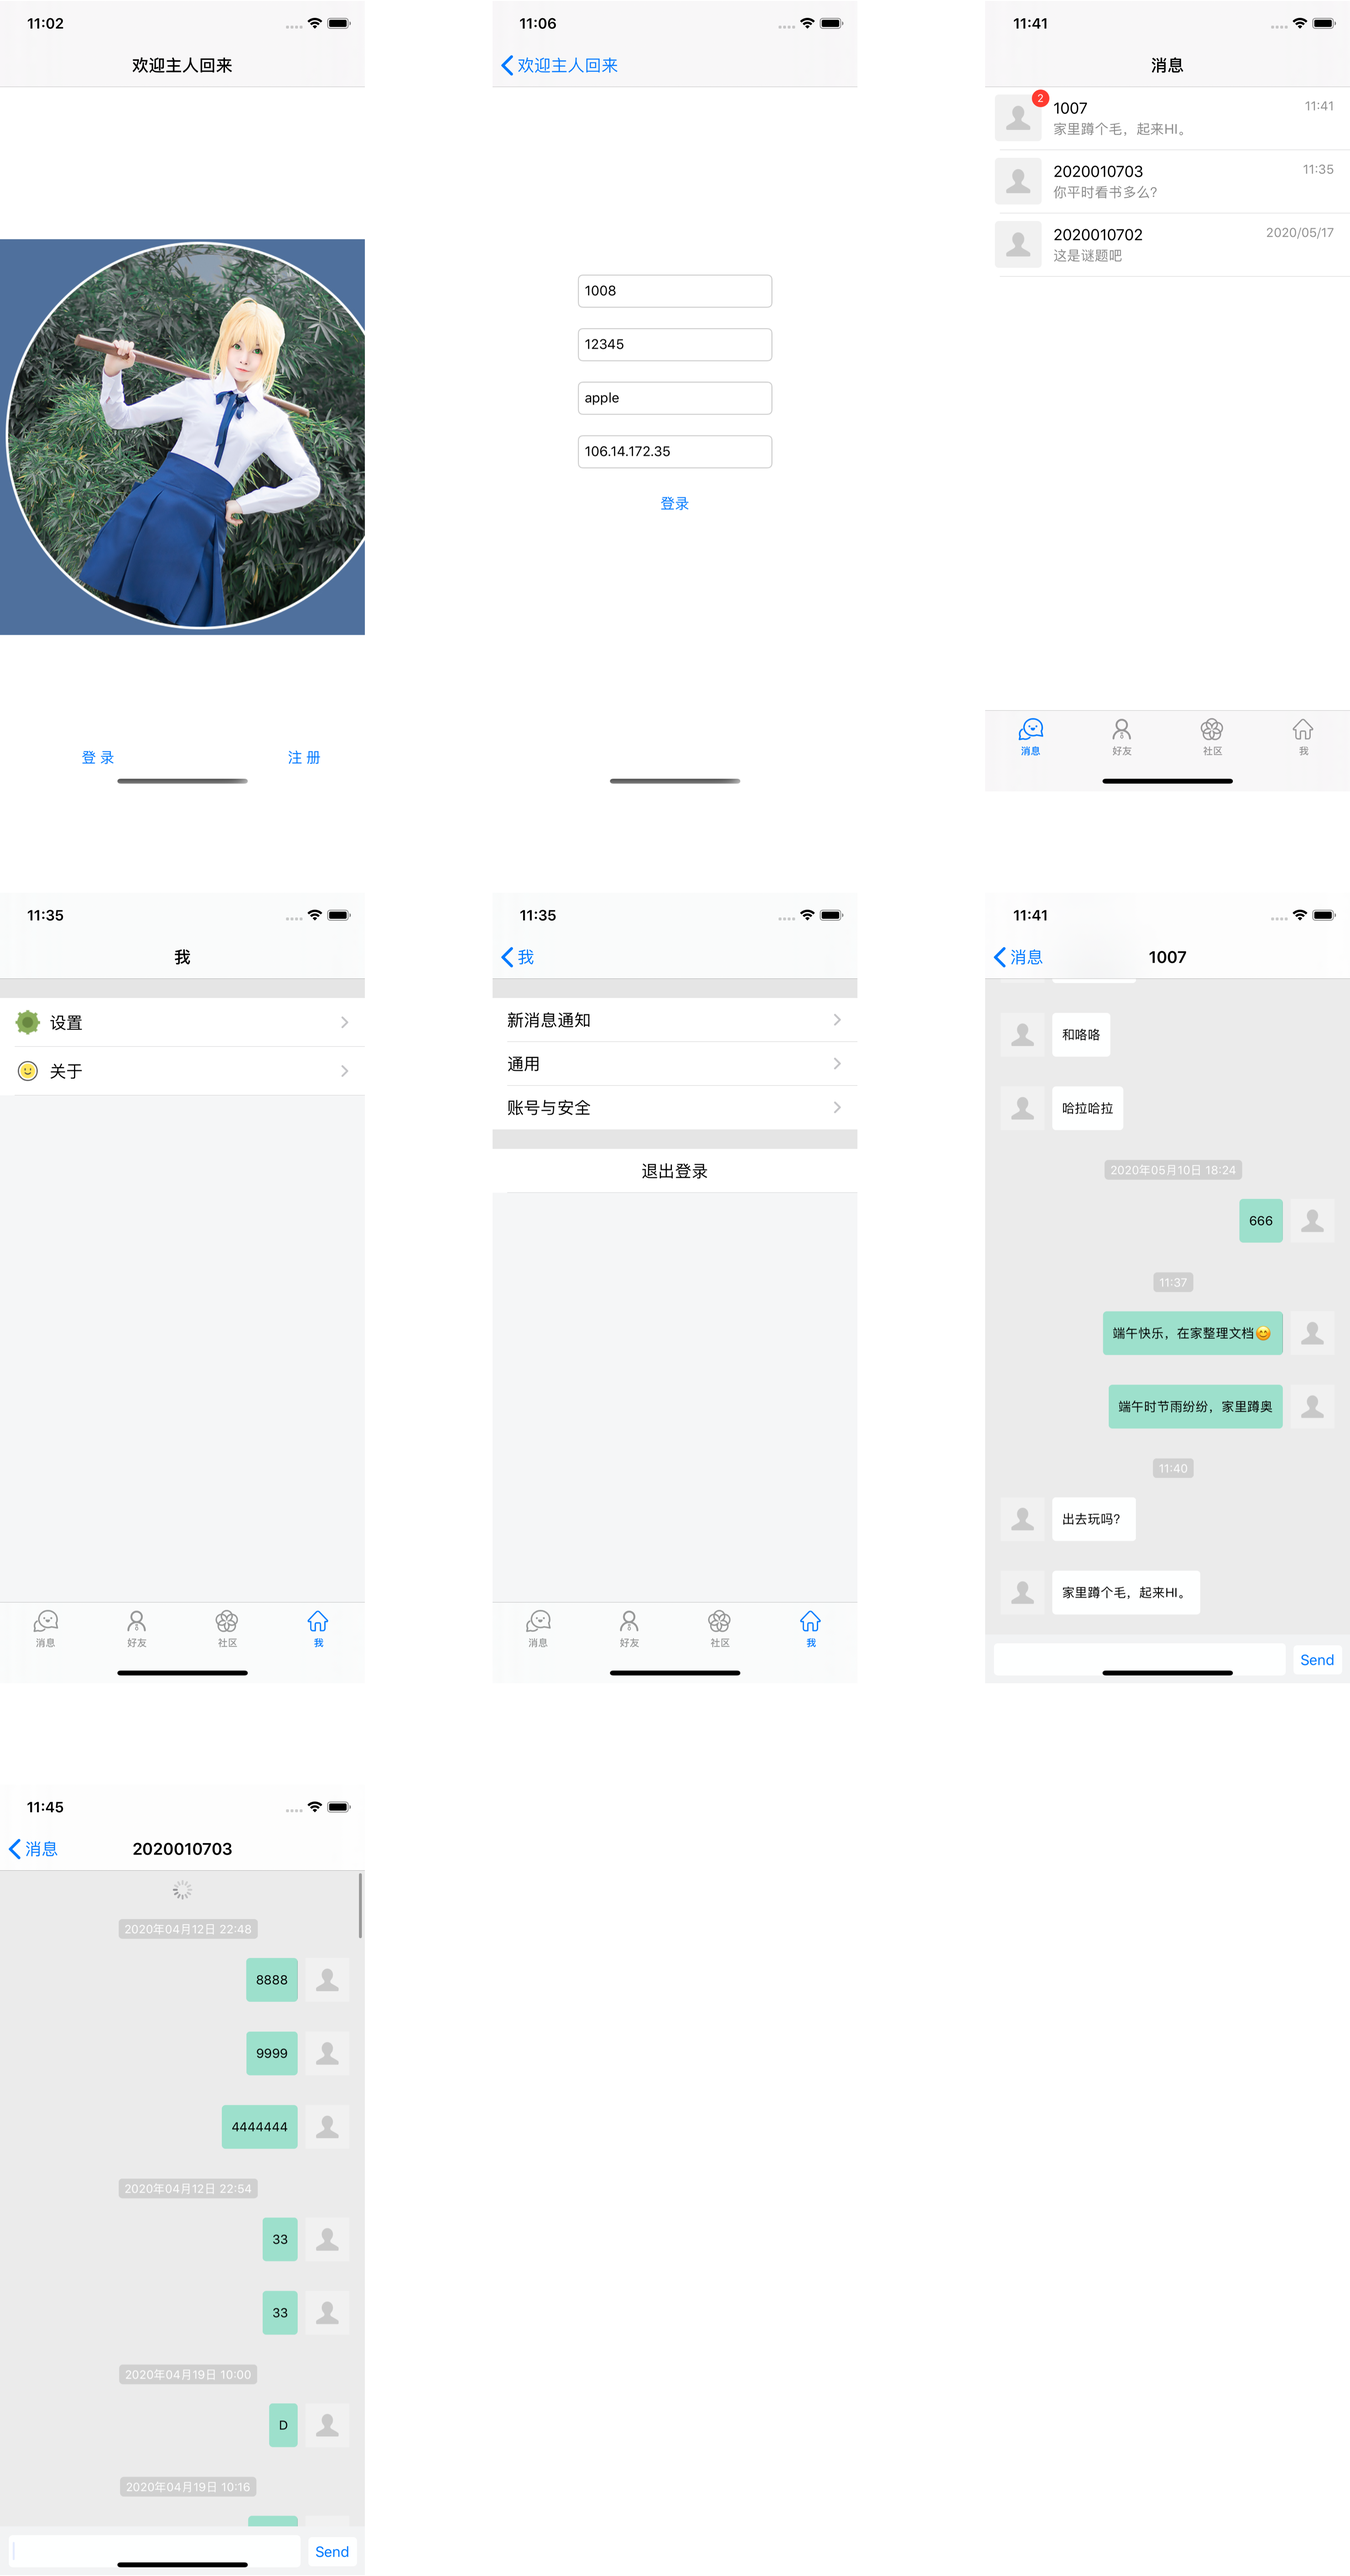
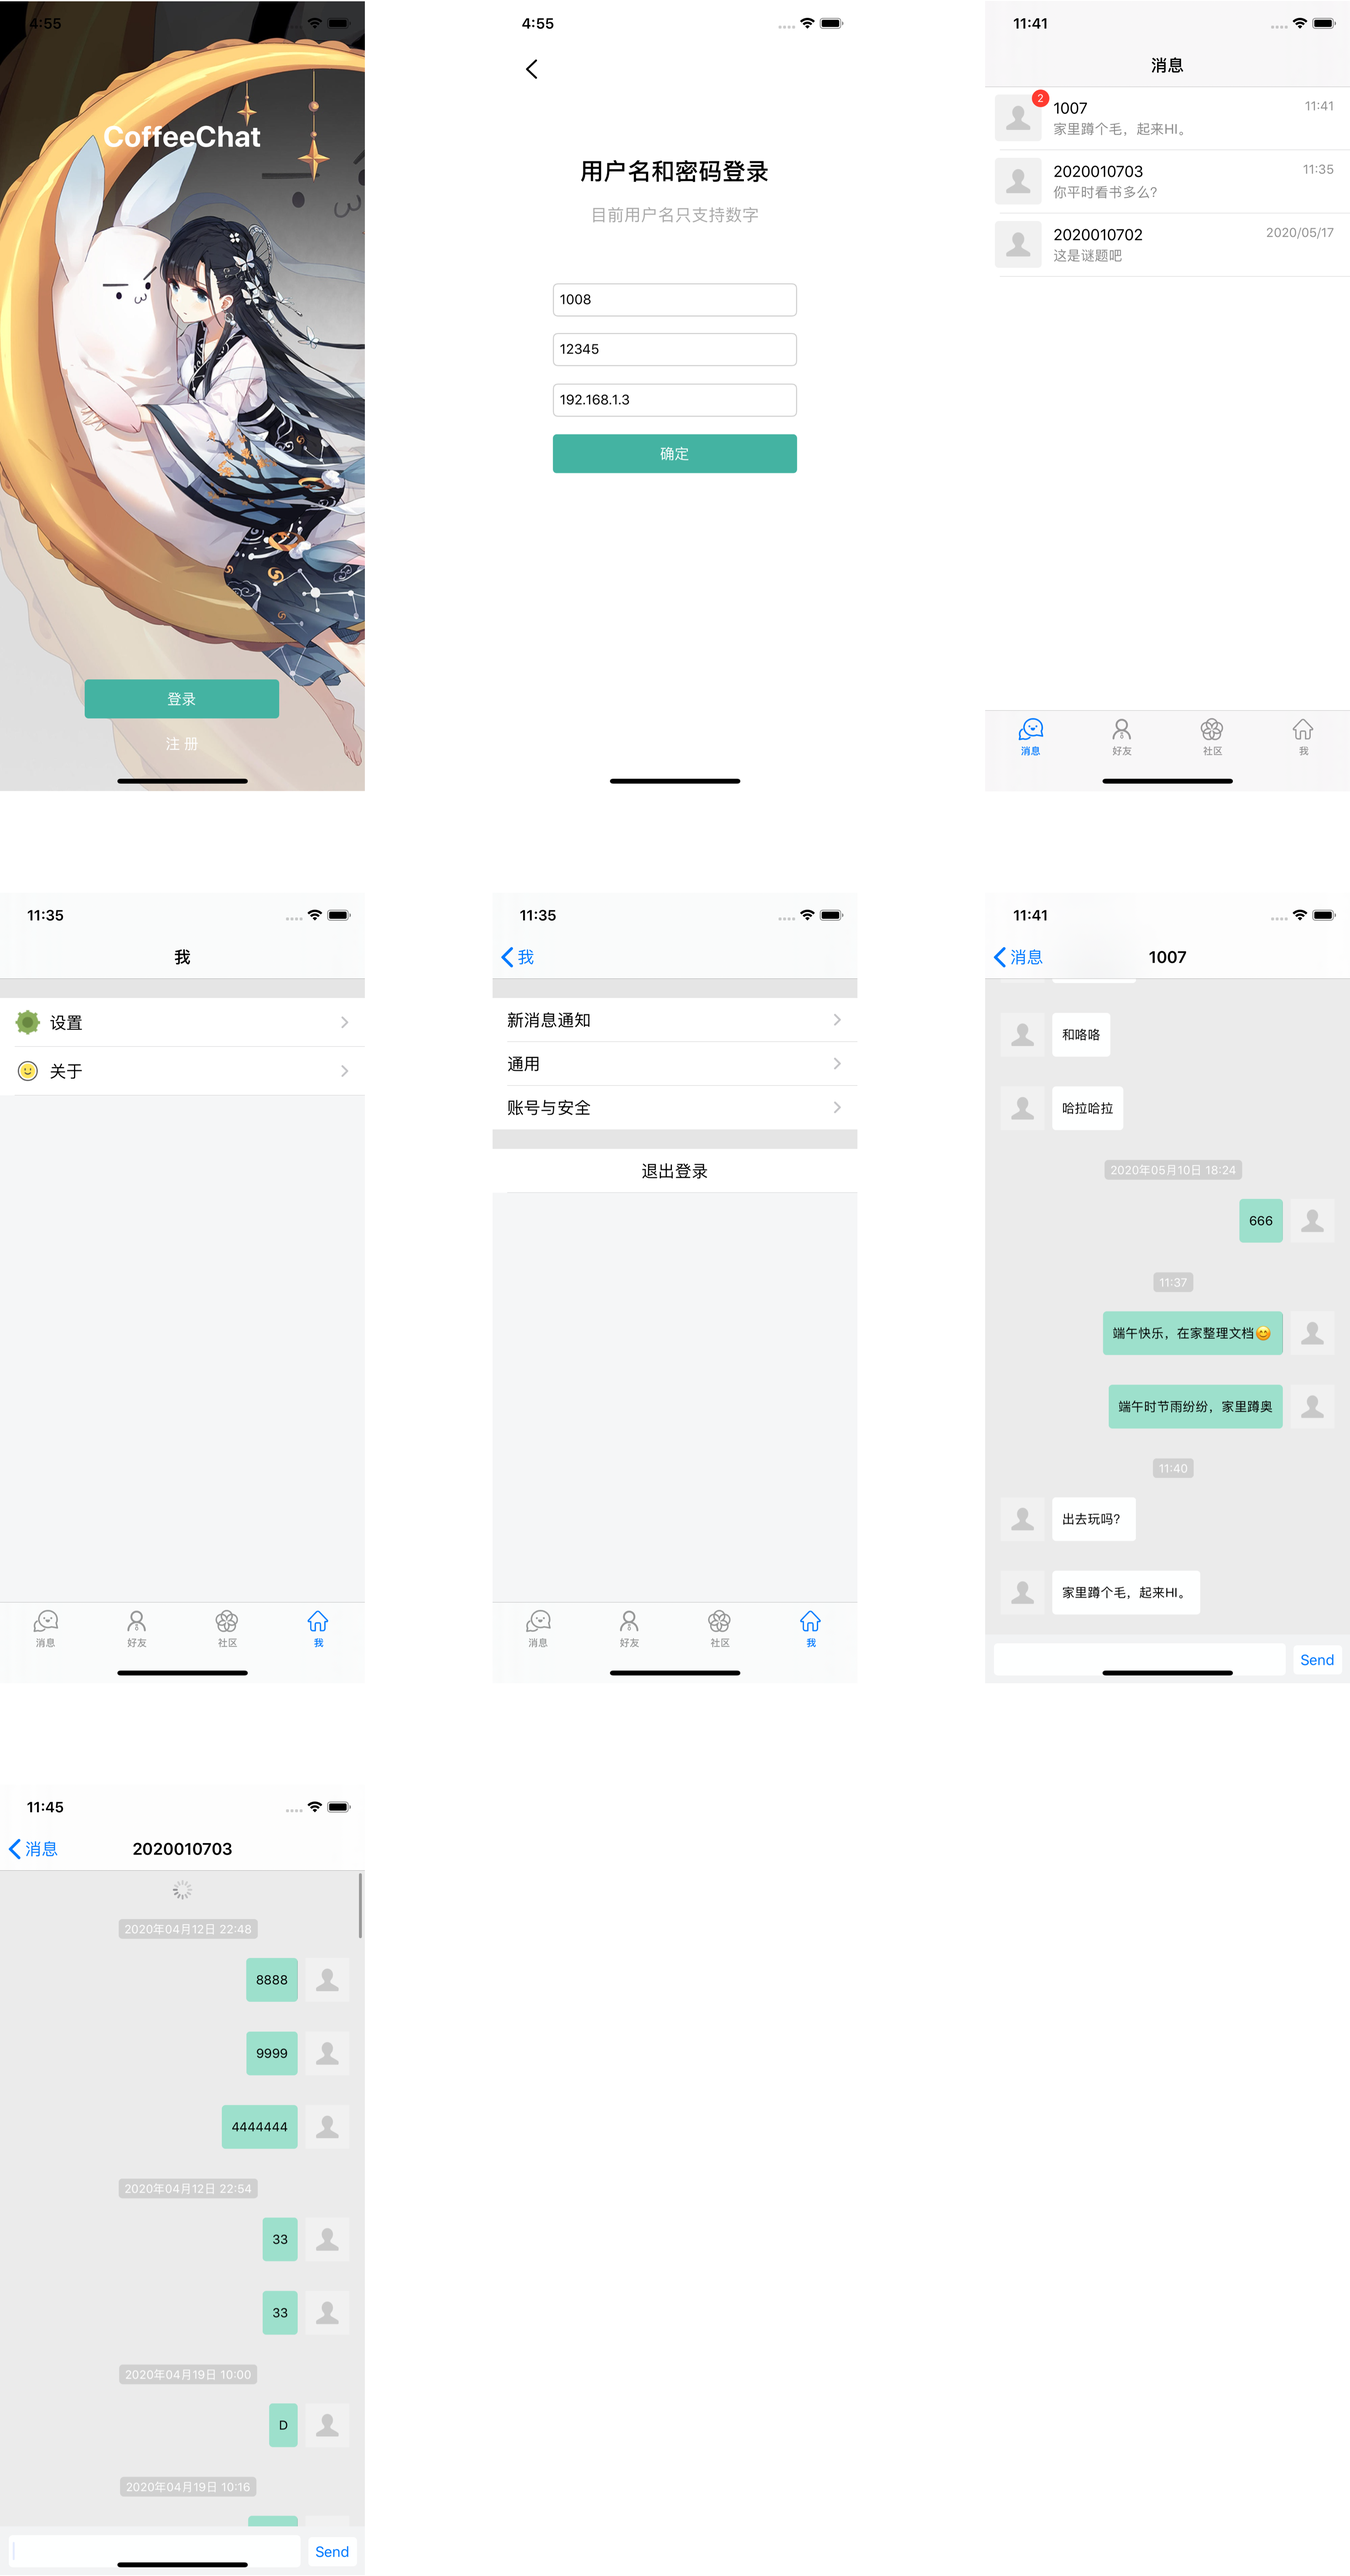
登录界面美化

diff --git a/client/ios/Coffchat/Coffchat/UI/Login/LoginViewController.swift b/client/ios/Coffchat/Coffchat/UI/Login/LoginViewController.swift
@@ -7,7 +7,6 @@
 //
 
 import Alamofire
-import Chrysan
 import UIKit
 
 typealias LoginResult = (_ code: Int, _ desc: String) -> Void
@@ -15,10 +14,9 @@ typealias LoginResult = (_ code: Int, _ desc: String) -> Void
 class LoginViewController: UIViewController, IMLoginManagerDelegate, UITextFieldDelegate {
     @IBOutlet var id: UITextField!
     @IBOutlet var token: UITextField!
-    @IBOutlet var nick: UITextField!
     @IBOutlet var server: UITextField!
     @IBOutlet var btnLogin: UIButton!
-    @IBOutlet var backBtn: UIButton!
+    @IBOutlet var backBtn: BEButton!
 
     var loginResultCallback: LoginResult?
 
@@ -29,8 +27,10 @@ class LoginViewController: UIViewController, IMLoginManagerDelegate, UITextField
 
         id.delegate = self
         token.delegate = self
-        nick.delegate = self
         server.delegate = self
+
+        backBtn.setEnlargeEdge(20)
+        btnLogin.layer.cornerRadius = 4
 
         hideKeyboardWhenTappedAround()
         // Do any additional setup after loading the view.
@@ -40,7 +40,7 @@ class LoginViewController: UIViewController, IMLoginManagerDelegate, UITextField
 //            debugPrint(res)
 //        }
     }
-    
+
     deinit {
         _ = IMManager.singleton.loginManager.unregister(key: "LoginViewController")
     }
@@ -55,7 +55,6 @@ class LoginViewController: UIViewController, IMLoginManagerDelegate, UITextField
     @objc func dismissKeyboard() {
         id.resignFirstResponder()
         token.resignFirstResponder()
-        nick.resignFirstResponder()
         server.resignFirstResponder()
     }
 
@@ -65,16 +64,13 @@ class LoginViewController: UIViewController, IMLoginManagerDelegate, UITextField
 
     @IBAction func onLoginBtnClick(_ sender: Any) {
         if check() {
-            // 菊花
-            chrysan.show(.running, message: nil, hideDelay: 3.0)
             let userId = UInt64(id.text!)
             if userId == nil {
                 return
             }
-            _ = IMManager.singleton.loginManager.login(userId: userId!, nick: nick.text!, userToken: token.text!, serverIp: server.text!, port: 8000) { rsp in
+            _ = IMManager.singleton.loginManager.login(userId: userId!, userToken: token.text!, serverIp: server.text!, port: 8000) { rsp in
                 // 线程安全
                 DispatchQueue.main.async {
-                    self.chrysan.hide()
                     if rsp.resultCode != .kCimErrSuccsse {
                         let alert = UIAlertController(title: "提醒", message: "登录失败:\(rsp.resultString)", preferredStyle: .alert)
                         let ok = UIAlertAction(title: "提醒", style: .cancel, handler: nil)
@@ -98,8 +94,6 @@ class LoginViewController: UIViewController, IMLoginManagerDelegate, UITextField
             text = "请输入ID"
         } else if token.text?.isEmpty ?? true {
             text = "请输入Token"
-        } else if nick.text?.isEmpty ?? true {
-            text = "请输入昵称"
         } else if server.text?.isEmpty ?? true {
             text = "请输入服务器IP"
         }
@@ -130,10 +124,9 @@ class LoginViewController: UIViewController, IMLoginManagerDelegate, UITextField
                 let ok = UIAlertAction(title: "提醒", style: .cancel, handler: nil)
                 alert.addAction(ok)
                 self.present(alert, animated: true, completion: nil)
-                self.btnLogin.setTitle("登录", for: .normal)
-                self.chrysan.hide()
+                self.btnLogin.setTitle("确定", for: .normal)
             default:
-                self.btnLogin.setTitle("登录", for: .normal)
+                self.btnLogin.setTitle("确定", for: .normal)
             }
         }
     }

diff --git a/client/ios/Coffchat/Coffchat/CIMSdk/IMLoginManager.swift b/client/ios/Coffchat/Coffchat/CIMSdk/IMLoginManager.swift
@@ -77,13 +77,12 @@ class IMLoginManager: IMClientDelegateStatus, IMClientDelegateData {
     /// 登录
     /// - Parameters:
     ///   - userId: 用户ID
-    ///   - nick: 用户昵称
     ///   - userToken: 用户口令
     ///   - serverIp: 服务器IP
     ///   - port: 服务器端口
     ///   - callback: 回调
-    func login(userId: UInt64, nick: String, userToken: String, serverIp: String, port: UInt16, callback: IMResultCallback<CIM_Login_CIMAuthTokenRsp>?) -> Bool {
-        IMLog.info(item: "auth userId=\(userId),nick=\(nick),userToken=\(userToken),serverIp=\(serverIp),port=\(port)")
+    func login(userId: UInt64, userToken: String, serverIp: String, port: UInt16, callback: IMResultCallback<CIM_Login_CIMAuthTokenRsp>?) -> Bool {
+        IMLog.info(item: "auth userId=\(userId),userToken=\(userToken),serverIp=\(serverIp),port=\(port)")
         
         if isLogin, self.userId != nil, userId != self.userId {
             client.disconnect()
@@ -98,7 +97,6 @@ class IMLoginManager: IMClientDelegateStatus, IMClientDelegateData {
         loginStep = IMLoginStep.Linking
         
         self.userId = userId
-        userNick = nick
         self.userToken = userToken
         authCallback = callback
         
@@ -170,7 +168,7 @@ extension IMLoginManager {
     func onConnected(_ host: String, port: UInt16) {
         _onUpdateLoginStep(step: .LinkOK)
         
-        if !isLogin, userId != nil, userNick != nil, userToken != nil {
+        if !isLogin, userId != nil, userToken != nil {
             // 更新登录进度
             _onUpdateLoginStep(step: .Logining)
             
@@ -178,7 +176,6 @@ extension IMLoginManager {
             var req = CIM_Login_CIMAuthTokenReq()
             req.clientType = CIM_Def_CIMClientType.kCimClientTypeIos
             req.userID = userId!
-            req.nickName = userNick!
             req.userToken = userToken!
             req.clientVersion = kClientVersion
             
@@ -209,12 +206,15 @@ extension IMLoginManager {
         do {
             res = try CIM_Login_CIMAuthTokenRsp(serializedData: data)
             
-            IMLog.info(item: "auth resultCode=\(res.resultCode),resultString=\(res.resultString)")
+            IMLog.info(item: "auth resultCode=\(res.resultCode),resultString=\(res.resultString),userId=\(res.userInfo.userID),nick=\(res.userInfo.nickName)")
             
             // 登录成功
             if res.resultCode == CIM_Def_CIMErrorCode.kCimErrSuccsse {
                 isLogin = true
                 loginTime = Int32(NSDate().timeIntervalSince1970)
+                
+                // 记录自己的昵称
+                userNick = res.userInfo.nickName
                 
                 // 更新登录进度
                 _onUpdateLoginStep(step: .LoginOK)
@@ -262,7 +262,7 @@ extension IMLoginManager {
                 if lastAuthTimeInterval > 8 {
                     lastAuthTimeInterval = 1
                 }
-                _ = login(userId: userId!, nick: userNick!, userToken: userToken!, serverIp: client.ip, port: client.port, callback: nil)
+                _ = login(userId: userId!, userToken: userToken!, serverIp: client.ip, port: client.port, callback: nil)
             }
         }
         

diff --git a/client/ios/Coffchat/Coffchat/UIHelper/BEButton.swift b/client/ios/Coffchat/Coffchat/UIHelper/BEButton.swift
@@ -1,0 +1,75 @@
+//
+//  BEButton.swift
+//  Coffchat
+//
+//  Created by fei.xu on 2020/12/6.
+//  Copyright © 2020 Coffeechat Inc. All rights reserved.
+//
+
+import Foundation
+import UIKit
+
+
+// from: https://www.jianshu.com/p/d8b10fceb242
+
+class BEButton: UIButton {
+    let _top = "_top"
+    let _left = "_left"
+    let _bottom = "_bottom"
+    let _right = "_right"
+    
+    override func point(inside point: CGPoint, with event: UIEvent?) -> Bool {
+        let rect = enlargedRect()
+        if rect.equalTo(bounds) {
+            return super.point(inside: point, with: event)
+        }
+        return rect.contains(point) ? true : false
+    }
+}
+
+extension BEButton {
+    func setEnlargeEdge(_ length: Float) {
+        setEnlargeEdge(length, length, length, length)
+    }
+    
+    func setEnlargeEdge(_ top: Float, _ left: Float, _ bottom: Float, _ right: Float) {
+        objc_setAssociatedObject(
+            self,
+            UnsafeRawPointer(bitPattern: _top.hashValue)!,
+            NSNumber(value: top),
+            .OBJC_ASSOCIATION_RETAIN_NONATOMIC)
+        objc_setAssociatedObject(
+            self,
+            UnsafeRawPointer(bitPattern: _left.hashValue)!,
+            NSNumber(value: left),
+            .OBJC_ASSOCIATION_RETAIN_NONATOMIC)
+        objc_setAssociatedObject(
+            self,
+            UnsafeRawPointer(bitPattern: _bottom.hashValue)!,
+            NSNumber(value: bottom),
+            .OBJC_ASSOCIATION_RETAIN_NONATOMIC)
+        objc_setAssociatedObject(
+            self,
+            UnsafeRawPointer(bitPattern: _right.hashValue)!,
+            NSNumber(value: right),
+            .OBJC_ASSOCIATION_RETAIN_NONATOMIC)
+    }
+    
+    private func enlargedRect() -> CGRect {
+        let topEdge = objc_getAssociatedObject(self, UnsafeRawPointer(bitPattern: _top.hashValue)!) as? NSNumber
+        let rightEdge = objc_getAssociatedObject(self, UnsafeRawPointer(bitPattern: _left.hashValue)!) as? NSNumber
+        let bottomEdge = objc_getAssociatedObject(self, UnsafeRawPointer(bitPattern: _bottom.hashValue)!) as? NSNumber
+        let leftEdge = objc_getAssociatedObject(self, UnsafeRawPointer(bitPattern: _right.hashValue)!) as? NSNumber
+        
+        if topEdge != nil, leftEdge != nil, bottomEdge != nil, rightEdge != nil {
+            return CGRect(
+                x: bounds.origin.x - CGFloat(leftEdge!.floatValue),
+                y: bounds.origin.y - CGFloat(topEdge!.floatValue),
+                width: bounds.width + CGFloat(leftEdge!.floatValue) + CGFloat(rightEdge!.floatValue),
+                height: bounds.height + CGFloat(topEdge!.floatValue) + CGFloat(bottomEdge!.floatValue))
+            
+        } else {
+            return bounds
+        }
+    }
+}

diff --git a/server/src/internal/logic/rpcserver/logic_rpc_server_auth.go b/server/src/internal/logic/rpcserver/logic_rpc_server_auth.go
@@ -64,7 +64,9 @@ func (s *LogicServer) AuthToken(ctx context.Context, in *cim.CIMAuthTokenReq) (*
 			rsp.ResultString = "success"
 
 			// update nick_name
-			dao.DefaultUser.Update(in.UserId, in.NickName)
+			//if in.NickName != ""{
+			//	dao.DefaultUser.Update(in.UserId, in.NickName)
+			//}
 
 			// user info
 			user := dao.DefaultUser.Get(in.UserId)

diff --git a/docs/05-进度计划.md b/docs/05-进度计划.md
@@ -51,7 +51,7 @@
 ## 0.3 xx
 
 - [ ] 登录
-    - [ ] 界面重新设计
+    - [x] 界面重新设计
     - [ ] 注册
 
 - [ ] 我的    
